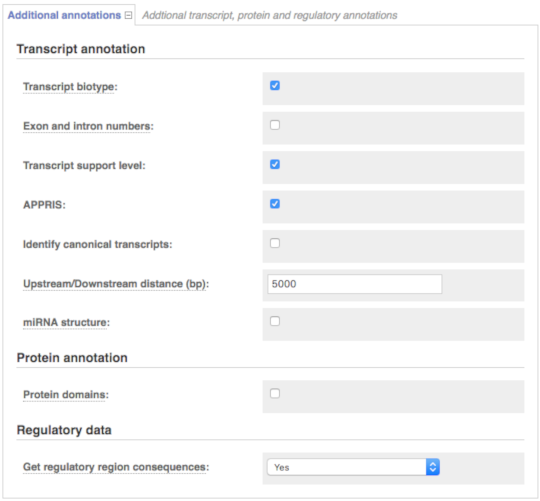
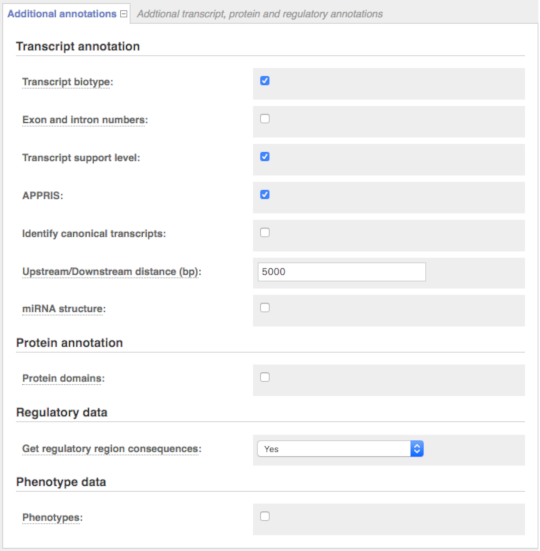
Update VEP web input form documentation

diff --git a/docs/htdocs/info/docs/tools/vep/online/input.html b/docs/htdocs/info/docs/tools/vep/online/input.html
@@ -285,7 +285,7 @@ enter your data and alter various options.</p>
                 <hr />
                 
                 <li><b>Protein domains</b>
-                  <p>Report <a href="/Help/Glossary?id=18">protein domains</a> from <a
+                  <p>Report <a href="/Help/Glossary?id=18">protein domains</a> from <a href="https://www.ebi.ac.uk/pdbe/" rel="external">PDBe</a>, <a
                   href="http://pfam.xfam.org" rel="external">Pfam</a>, <a
                   href="http://prosite.expasy.org/" rel="external">Prosite</a> and
                   <a href="http://www.ebi.ac.uk/interpro/"
@@ -306,6 +306,18 @@ enter your data and alter various options.</p>
                   or less similar to the consensus.<br />
                   Get regulatory consequences is equivalent to <a
                   href="/info/docs/tools/vep/script/vep_options.html#opt_regulatory">--regulatory</a>.</p>
+                </li>
+
+                <hr />
+
+                <li><b>Phenotypes</b>
+                  <p>
+                    Report the phenotypic data overlapping the genomic features. This functionality is provided by the 
+                    <a href="https://github.com/Ensembl/VEP_plugins/blob/release/[[SPECIESDEFS::ENSEMBL_VERSION]]/Phenotypes.pm">Phenotypes</a> plugin.<br />
+                    For more information on the imported phenotypic data for genes, variation and QTLs see 
+                    <a href="/info/genome/variation/phenotype/sources_phenotype_documentation.html">our phenotype documentation</a>.<br />
+                    <b>Note:</b> This web functionality is not reporting cancer phenotypic data this release. However the cancer phenotypic data is available in the command line version.
+                  </p>
                 </li>
             </ul>
         </div>
